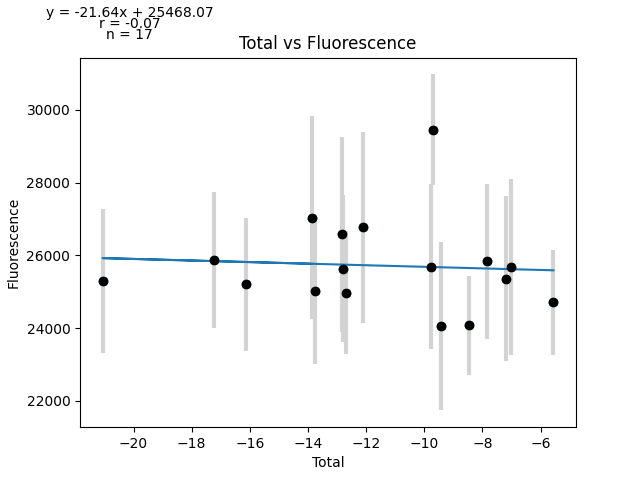
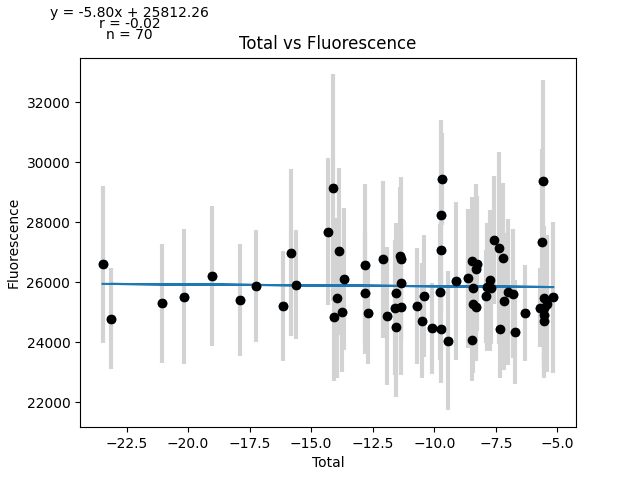
all design fluor before mutant trimming

diff --git a/ngsReconstruction/CHIP2_analysisCode/mutantAnalysis.py b/ngsReconstruction/CHIP2_analysisCode/mutantAnalysis.py
@@ -80,11 +80,16 @@ print("ili",len(df_fluor[df_fluor['Sample'] == 'G']['Sequence']))
 # get the data for sequences that successfully fluoresce
 df_fluor_seqs = df_fluor[df_fluor['Sequence'].isin(df_sequence['Sequence'])]
 df_fluor_mutant = df_fluor[df_fluor['Sequence'].isin(df_mutant['Mutant'])]
-print("fluor",len(df_fluor_seqs[df_fluor_seqs['Sample'] == 'G']['Sequence']))
+print("fluor G",len(df_fluor_seqs[df_fluor_seqs['Sample'] == 'G']['Sequence']))
+print("fluor L",len(df_fluor_seqs[df_fluor_seqs['Sample'] == 'L']['Sequence']))
+print("fluor R",len(df_fluor_seqs[df_fluor_seqs['Sample'] == 'R']['Sequence']))
+
+
 
 df_sequence = df_sequence[df_sequence['Sequence'].isin(df_fluor_seqs['Sequence'])]
 df_mutant = df_mutant[df_mutant['Mutant'].isin(df_fluor_mutant['Sequence'])]
 print("mut",len(df_sequence[df_sequence['Region'] == 'GAS']['Sequence']))
+
 #print(len(df_sequence[df_sequence['Design'] == 'GJL']['Sequence']))
 
 # remove duplicate sequences
@@ -99,6 +104,9 @@ df_mutant_no_duplicates = df_mutant_no_duplicates.merge(df_fluor_mutant[['Sequen
 df_mutant_no_duplicates = df_mutant_no_duplicates.drop(columns=['Sequence_y'])
 # rename the sequence column
 df_mutant_no_duplicates = df_mutant_no_duplicates.rename(columns={'Sequence_x': 'Sequence'})
+print("fluor G",len(df_sequence_no_duplicates[df_sequence_no_duplicates['Sample'] == 'G']['Sequence']))
+print("fluor L",len(df_sequence_no_duplicates[df_sequence_no_duplicates['Sample'] == 'L']['Sequence']))
+print("fluor R",len(df_sequence_no_duplicates[df_sequence_no_duplicates['Sample'] == 'R']['Sequence']))
 
 df_mutant_no_duplicates.to_csv(f'{outputDir}/mutant_fluor.csv', index=False)
 df_sequence_no_duplicates.to_csv(f'{outputDir}/sequence_fluor.csv', index=False)
@@ -121,7 +129,8 @@ print(df_mutants_with_WT.shape)
 
 
 samples = df_sequence_no_duplicates['Sample'].unique()
-
+graphWTVsFluorescence(df_sequence_no_duplicates, samples, 'Total', outputDir)
+exit(0)
 # get the number of sequences with fluorescence higher than mutant
 successfulSeqs = 0
 output_df = pd.DataFrame()
